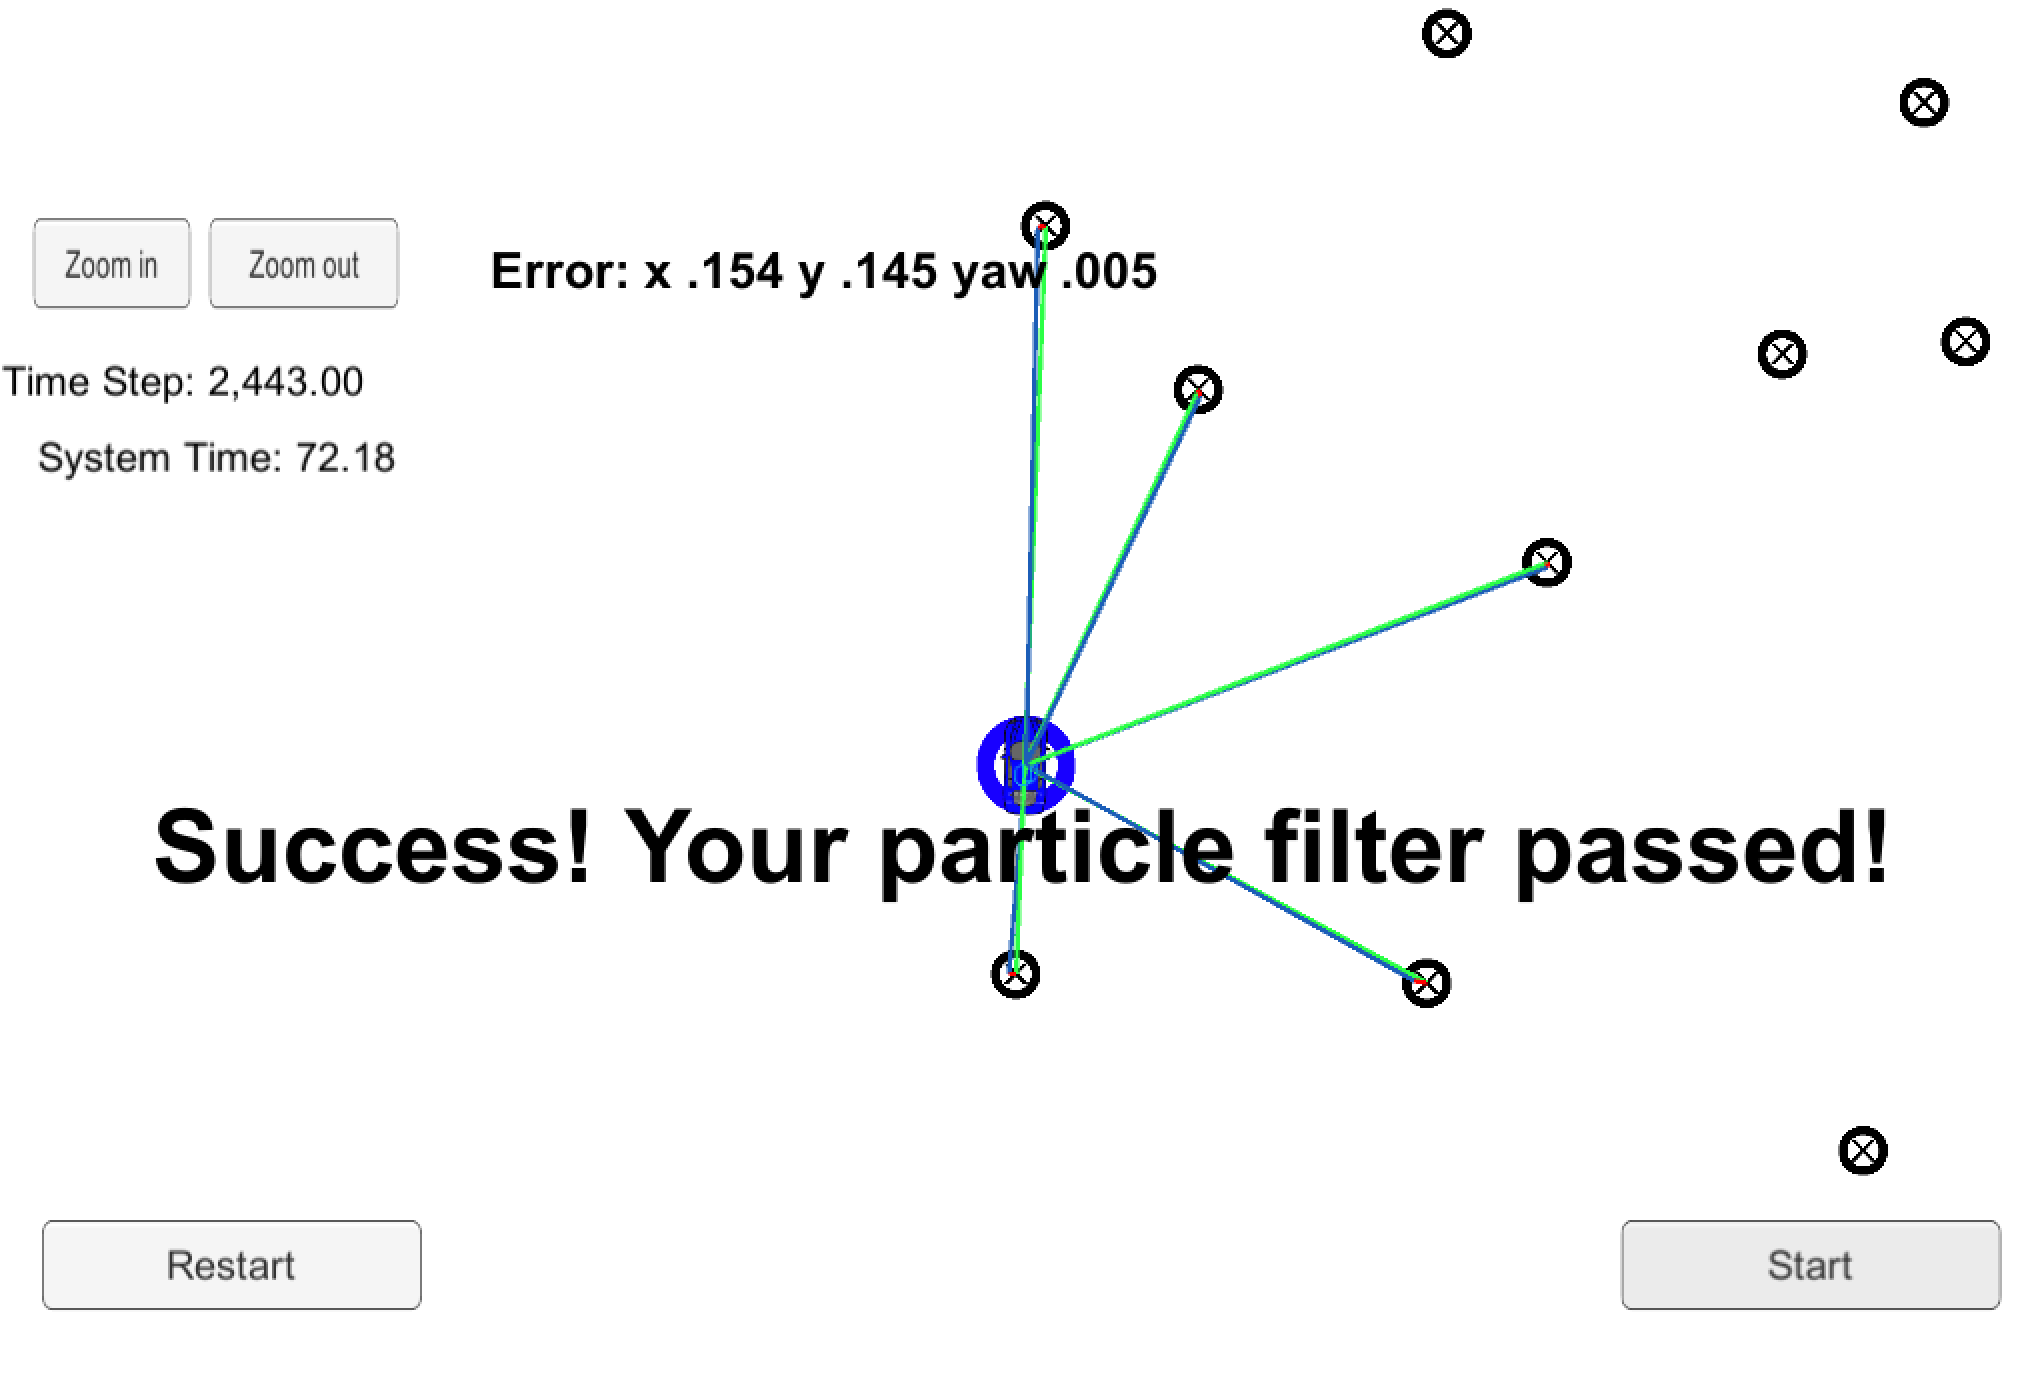
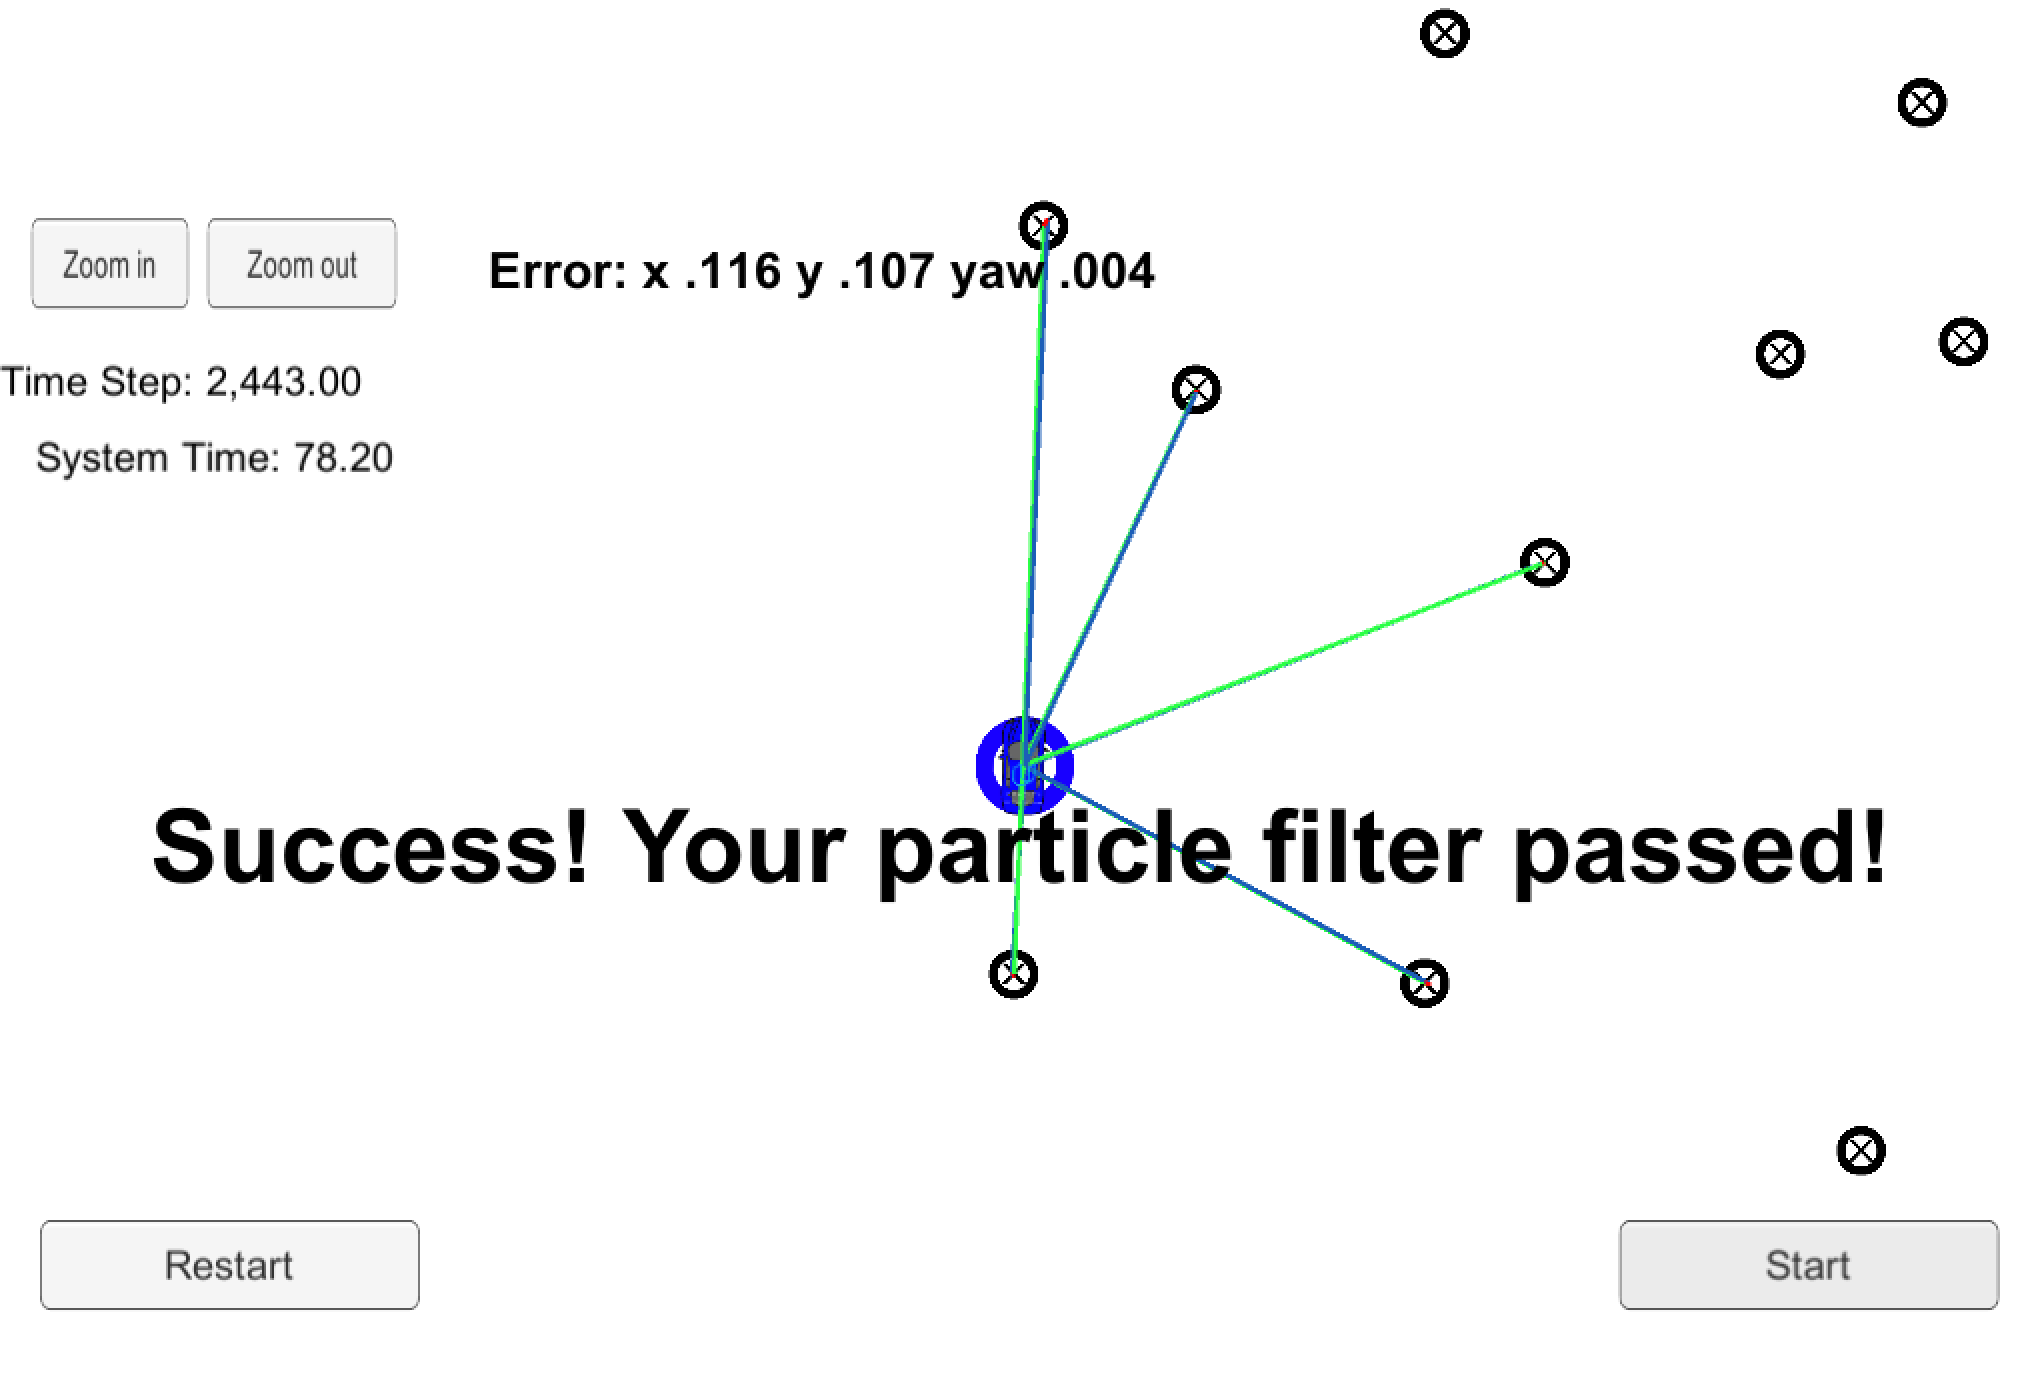
Changed amount of particles

diff --git a/src/particle_filter.cpp b/src/particle_filter.cpp
@@ -19,7 +19,7 @@ void ParticleFilter::init(double x, double y, double theta, double std[])
 	// Add random Gaussian noise to each particle.
 	// NOTE: Consult particle_filter.h for more information about this method (and others in this file).
 
-    num_particles = 10;
+    num_particles = 100;
 
     particles.resize(num_particles);
     weights.resize(num_particles);

diff --git a/README.md b/README.md
@@ -5,7 +5,9 @@ In this project I implemented an Two-dimensional Particle Filter to complete the
 
 This Particle Filter will be given a map and some initial localization information (analogous to what a GPS would provide). At each time step filter will also get observation and control data.
 
-My **Error = [x:.154, y:.145, yaw:.005]** and this result allows to pass the test successfully. 
+I use 100 particles.
+
+My **Error = [x:.116, y:.107, yaw:.004]** and this result allows to pass the test successfully. 
 
 [//]: # (Image References)
 [image1]: ./particle_pass.png
